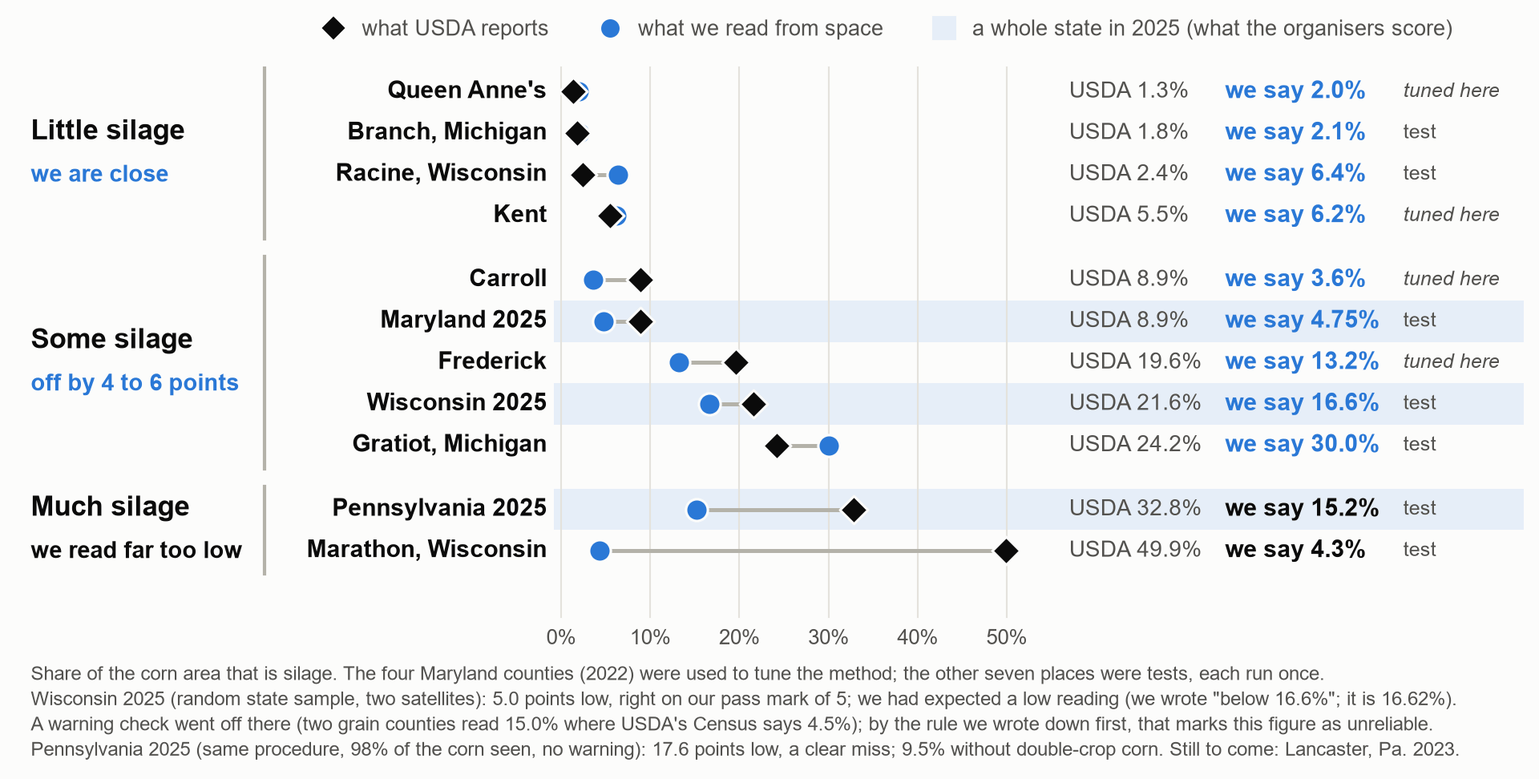
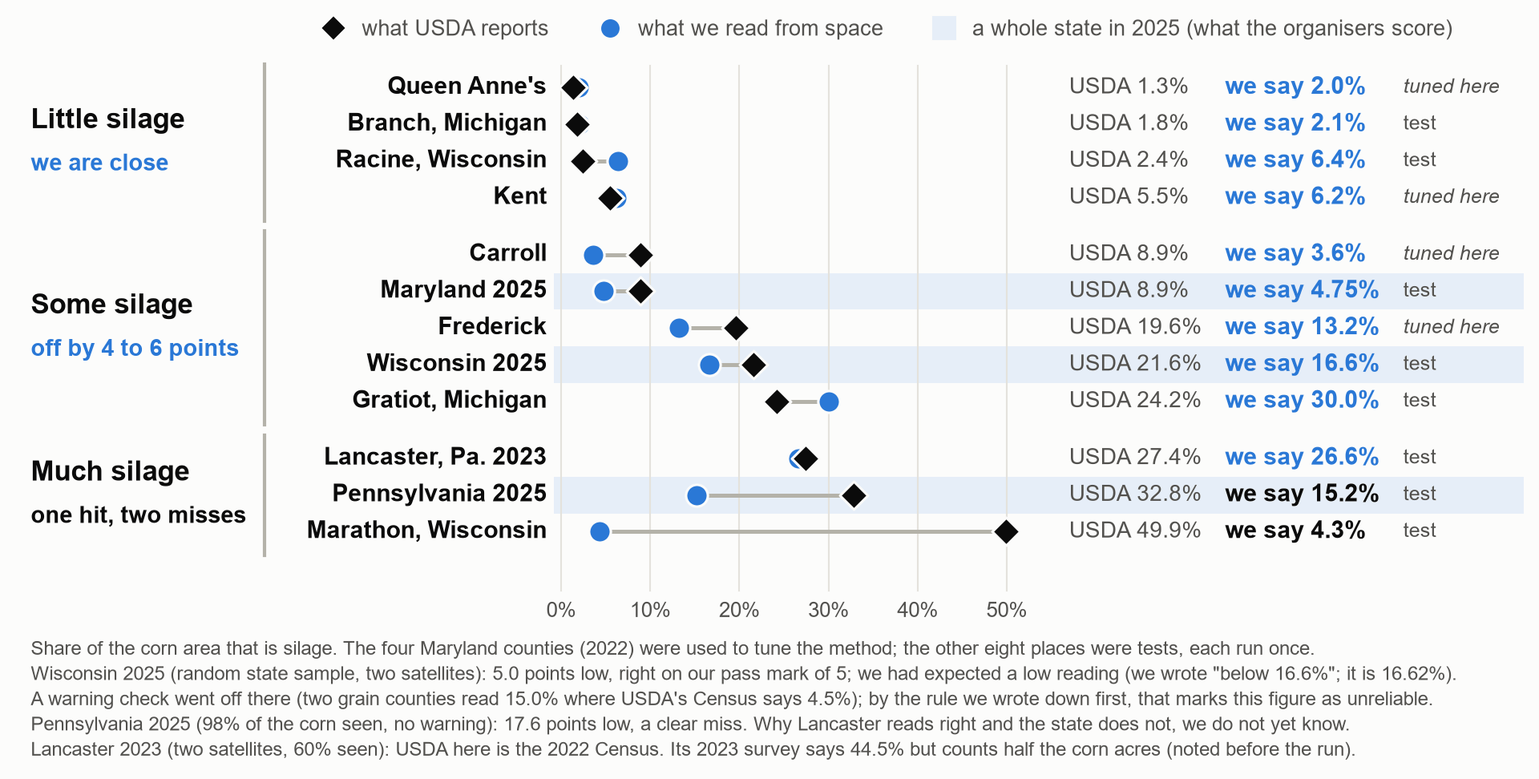
Deck: Lancaster County 2023, the last test, within a point of USDA (26.6 percent for 27.4); dairy country is right in one place and low in others
Lancaster joins the scoreboard as the one hit among the places with much silage, beside Pennsylvania 2025 and Marathon. The title, lesson 4, the Today and Next cards and the one-minute script say that we do not yet know what separates the county from the state. Places slide row filled, eighth row in the rules table, a line under the last-figure chart (no gain in Lancaster).

diff --git a/docs/pitch/build_deck.py b/docs/pitch/build_deck.py
@@ -124,8 +124,8 @@ ONE_MINUTE = """
 3. Our model had never seen an American field. At Beltsville it got 42 of USDA's 44 labelled fields right.
 4. In counties where silage is rare, our numbers are close to USDA's.
 5. Where clouds hid the harvest, a second satellite, Landsat, brought most of it back into view.
-6. In dairy states we read low. We tested two states we had never looked at. Wisconsin: 16.6 percent, where USDA says 21.6. Pennsylvania: 15 percent, where USDA says 33.
-7. So the next step is American labelled fields. A model taught in Europe reads American dairy silage low.
+6. In dairy country it is mixed. In Pennsylvania's largest dairy county we were within a point of USDA. Across the whole state we read less than half. In Wisconsin we were 5 points low.
+7. We do not yet know what separates them. So the next step is American labelled fields.
 
 === 一分钟版本（上面七句的中文） ===
 1. 美国农业部问：从太空看，一块玉米地是切碎做了青贮，还是收了籽粒？
@@ -133,8 +133,8 @@ ONE_MINUTE = """
 3. 我们的模型从没见过美国的地。在 Beltsville，美国农业部 44 个带标签的地块它对了 42 个。
 4. 在青贮很少的县，我们的数字和美国农业部的很接近。
 5. 云挡住收割期的地方，第二颗卫星 Landsat 把其中大部分又看回来了。
-6. 在奶牛产区的州我们读得偏低。我们测了两个从没看过的州。威斯康星：我们 16.6%，美国农业部 21.6%。宾夕法尼亚：我们 15%，美国农业部 33%。
-7. 所以下一步是美国本土带标签的地块。在欧洲学出来的模型，读美国奶牛产区的青贮会偏低。"""
+6. 在奶牛产区，结果有好有坏。在宾夕法尼亚最大的奶牛县，我们和美国农业部只差不到一个点；在整个宾州，我们读出的还不到一半；在威斯康星，我们低了 5 个点。
+7. 我们还不知道是什么造成了这个差别。所以下一步是美国本土带标签的地块。"""
 
 
 def build(out):
@@ -257,14 +257,16 @@ def build(out):
           "我们的模型从没见过美国的地。在美国农业部 44 个带标签的地块上，它对了 42 个。12 块青贮地找到了 11 块，只有一次误报。在笔记本电脑上，一个县大约一分钟算完（实测）。")
 
     # 6  the scoreboard against USDA ---------------------------------------------------------------------
-    s = new_slide(prs, "Close where silage is rare, low in dairy country: 5 points in Wisconsin, 18 in Pennsylvania")
+    s = new_slide(prs, "Close where silage is rare. In dairy country: right in Lancaster, 5 points low in Wisconsin, 18 in Pennsylvania")
     body_picture(s, "s06_scoreboard.png")
-    notes(s, "Then we tried to break it. We compared eleven places with USDA's own numbers. "
-             "We are close where silage is rare. In dairy country we read low: 5 points in Wisconsin, 18 in Pennsylvania. "
-             "Those are two whole states we had never looked at. In Pennsylvania we saw almost all the corn, so clouds are not the reason. "
+    notes(s, "Then we tried to break it. We compared twelve places with USDA's own numbers. "
+             "We are close where silage is rare. In dairy country it is mixed. "
+             "In Lancaster, Pennsylvania's largest dairy county, we are within a point of USDA. "
+             "Across all of Pennsylvania we read less than half, and Wisconsin is 5 points low. We do not yet know what separates them. "
              "In Wisconsin a warning check we had set up went off. By the rule we wrote down first, that marks the Wisconsin figure as unreliable.",
-          "然后我们想办法把它考倒：拿十一个地方和美国农业部自己的数字对比。青贮少的地方我们很接近；在奶牛产区我们读得偏低："
-          "威斯康星低 5 个点，宾夕法尼亚低 18 个点。这两个州我们之前从没看过。在宾夕法尼亚我们几乎看到了所有玉米，所以原因不是云。"
+          "然后我们想办法把它考倒：拿十二个地方和美国农业部自己的数字对比。青贮少的地方我们很接近；在奶牛产区，结果有好有坏。"
+          "在宾夕法尼亚最大的奶牛县 Lancaster，我们和美国农业部只差不到一个点；在整个宾州，我们读出的还不到一半；威斯康星低 5 个点。"
+          "我们还不知道是什么造成了这个差别。"
           "在威斯康星，我们事先设的一个预警触发了；按我们事先写下的规则，威斯康星这个数字要标为“不可靠”。")
 
     # 7  a second satellite for the cloudy counties --------------------------------------------------------------
@@ -289,9 +291,9 @@ def build(out):
          "A clever correction failed the test we had written for it (21% for 5.5%). We dropped it.", False),
         ("A second satellite sees past the clouds",
          "In three cloudy counties, Landsat brought the corn back into view and our figure moved towards USDA's.", False),
-        ("In dairy states we read low, even when we see the fields",
-         f"Pennsylvania 2025: {pa['seen']}% of the corn seen, and we read {pa['ours']}% where USDA has {pa['usda']}%. "
-         "So the limit is not clouds. The next step is American labelled fields.", True),
+        ("In dairy country we are right in one place and low in others",
+         "In Pennsylvania's largest dairy county we were within a point of USDA. Across the state we read less than half, "
+         f"with {pa['seen']}% of the corn in view. We do not yet know why.", True),
     ]
     for i, (head, line, open_) in enumerate(lessons):
         x = MX + (i % 2) * (half + 0.4)
@@ -301,9 +303,10 @@ def build(out):
         text(s, x + 1.2, y + 0.3, half - 1.5, 0.9, head, size=21, bold=True, color=WHITE if open_ else INK, spacing=1.05)
         text(s, x + 1.2, y + 1.2, half - 1.5, 1.2, line, size=15, color=WHITE if open_ else INK2, spacing=1.15)
     notes(s, "The data taught us four things on the way. Do not count what you cannot see. Test your own fix. "
-             "A second satellite sees past clouds. And in dairy states we read low, even when we see the fields.",
+             "A second satellite sees past clouds. And in dairy country we are right in one place and low in others: "
+             "within a point of USDA in Pennsylvania's largest dairy county, less than half across the whole state. We do not yet know why.",
           "一路上数据教了我们四件事：看不见的不要数；自己的修正也要检验；第二颗卫星能看穿云层；"
-          "还有，在奶牛产区的州，即使看清了地块，我们的读数还是偏低。")
+          "还有，在奶牛产区，我们有的地方读对了，有的地方读低了：在宾夕法尼亚最大的奶牛县只差不到一个点，在整个宾州却不到一半。原因我们还不知道。")
 
     # 8  the whole team system -------------------------------------------------------------------------------
     s = new_slide(prs, "Where our model sits in the team's system")
@@ -351,11 +354,11 @@ def build(out):
     card(s, MX, 1.5, half, 3.55)
     text(s, MX + 0.4, 1.7, half - 0.8, 0.5, "Today", size=24, bold=True, color=BLUE)
     text(s, MX + 0.4, 2.4, half - 0.8, 2.6, "A call for every corn field, with the evidence behind it: 42 of 44 right where we could check.\n\n"
-         "County totals where silage is rare. Elsewhere, a plain warning that we read low.\n\n"
+         "County totals where silage is rare. In dairy country, a plain warning: we can read low.\n\n"
          "Free public data, no US labels, about a minute per county on a laptop.", size=16, color=INK, spacing=1.08)
     card(s, MX + half + 0.4, 1.5, half, 3.55)
     text(s, MX + half + 0.8, 1.7, half - 0.8, 0.5, "Next", size=24, bold=True, color=BLUE)
-    text(s, MX + half + 0.8, 2.4, half - 0.8, 2.6, "American labelled fields, or training against USDA's county totals: a model taught in Europe reads dairy states low.\n\n"
+    text(s, MX + half + 0.8, 2.4, half - 0.8, 2.6, "American labelled fields, or training against USDA's county totals: in dairy country we are not yet reliable.\n\n"
          "Landsat, the second satellite, everywhere.\n\n"
          "Labelled double-crop corn fields: those calls are untested.", size=16, color=INK, spacing=1.08)
     card(s, MX, 5.3, FULL, 1.6, fill=BLUE, line=None)
@@ -364,10 +367,10 @@ def build(out):
     text(s, MX + 0.4, 6.15, FULL - 0.8, 0.65, "A preliminary baseline, checked in four states. "
          "Predictions anywhere else are examples, not verified results.", size=14, color=WHITE, anchor=MSO_ANCHOR.MIDDLE)
     notes(s, "So what does USDA get? A call for every field, with its evidence, from free data. "
-             "County totals where silage is rare. In dairy states we read low, and we say so. "
+             "County totals where silage is rare. In dairy country we are not yet reliable, and we say so. "
              "Next we need American labelled fields.",
           "那么美国农业部能得到什么？每块地一个判断，附上依据，用的是免费数据；青贮少的县，有县级总数。"
-          "在奶牛产区的州我们读得偏低，我们照实说。下一步需要美国本土带标签的地块。")
+          "在奶牛产区我们还不可靠，我们照实说。下一步需要美国本土带标签的地块。")
 
     # ===== more detail: each slide stands on its own ====================================================================
 
@@ -403,11 +406,11 @@ def build(out):
     body_picture(s, "s05_places.png")
     notes(s, "Every place we compared with USDA, with both ways of adding up the fields. "
              "The grey bands are the ranges USDA's own figures allow. "
-             "The newest rows are two whole states. Wisconsin 2025: 16.6 percent for USDA's 21.6, right on our pass mark of five points. "
-             "Pennsylvania 2025: 15.2 percent for 32.8, a clear miss.",
+             "The three newest rows were opened last, once each. Wisconsin 2025: 16.6 percent for USDA's 21.6, right on our pass mark of five points. "
+             "Pennsylvania 2025: 15.2 percent for 32.8, a clear miss. Lancaster County 2023: 26.6 percent for 27.4, within a point.",
           "所有和美国农业部对比过的地方，两种加总方式都列出来。灰色带是美国农业部自己的数字允许的范围。"
-          "最新的两行是两个州。2025 年威斯康星：我们 16.6%，美国农业部 21.6%，正好压在我们 5 个点的及格线上。"
-          "2025 年宾夕法尼亚：我们 15.2%，美国农业部 32.8%，明显读低了。")
+          "最新的三行是最后打开的三个地方，每个只跑一次。2025 年威斯康星：我们 16.6%，美国农业部 21.6%，正好压在我们 5 个点的及格线上。"
+          "2025 年宾夕法尼亚：我们 15.2%，美国农业部 32.8%，明显读低了。2023 年 Lancaster 县：我们 26.6%，美国农业部 27.4%，只差不到一个点。")
 
     s = new_slide(prs, "Starting from USDA's last figure: closer in six of eight counties we tuned on, worse in all three states")
     body_picture(s, "s_update.png")
@@ -438,8 +441,8 @@ def build(out):
          "and our \"not seen\" measure did not flag it",
          "Added Landsat, a second satellite: corn seen 29% → 83%. Repairing the measure so such a county is reported as a range",
          "4.3% → 13.8% (USDA 49.9%). The rest needs northern training fields"),
-        ("Dairy states read low even with the corn in view: Pennsylvania 15.2% for 32.8%",
-         "Measured on two state samples never looked at before", "Not solved: needs American labelled fields"),
+        ("Dairy country is mixed: Lancaster County 26.6% for 27.4%, but all of Pennsylvania 15.2% for 32.8%",
+         "Measured on three places never looked at before", "Not solved: we do not yet know what separates them"),
     ]
     y = 1.76
     for i, cells in enumerate(fixes):
@@ -449,10 +452,10 @@ def build(out):
             text(s, x + 0.2, y, w - 0.3, rh, cell, size=13.5, bold=strong, color=INK, anchor=MSO_ANCHOR.MIDDLE, spacing=1.05)
         y += rh + 0.06
     notes(s, "The tuning in one table: each row is a problem the data showed us, what we did, and what came out. "
-             "Early green grain is not solved, the cloudy dairy county is only partly fixed, and dairy states still read low.",
+             "Early green grain is not solved, the cloudy dairy county is only partly fixed, and dairy country is right in one place and low in others.",
           "一张表讲完调优过程：每一行是数据暴露出的一个问题、我们的做法和结果。"
           "趁绿早收的籽粒玉米还没解决；多云的那个奶牛县只修好了一部分。"
-          "奶牛产区的州仍然读得偏低。")
+          "奶牛产区有的地方读对了，有的地方读低了。")
 
     s = new_slide(prs, "Why we count only the fields we saw clearly")
     body_picture(s, "s09_gap_evidence.png")
@@ -507,7 +510,7 @@ def build(out):
          "Failures are shown as failures. In Wisconsin 2025 a warning check we had written first went off, so by our own rule "
          "that figure is marked unreliable.", size=15, color=INK, spacing=1.12)
     text(s, MX, 4.12, FULL, 0.35, "From the log: the rule first, then the test", size=14, bold=True, color=INK)
-    wi, pa = N.WISCONSIN_2025, N.PENNSYLVANIA_2025
+    wi, pa, la = N.WISCONSIN_2025, N.PENNSYLVANIA_2025, N.LANCASTER_2023
     logged = [
         ("16:12", "16:40", "Queen Anne's", "failed: 22% for USDA's 1.3%"),
         ("17:30", "18:11", "Kent", "failed: 21% for USDA's 5.5%"),
@@ -516,6 +519,7 @@ def build(out):
         ("22:55", "22:58", "Wisconsin 2023, two counties", "failed: Marathon 4.3% for USDA's 32 to 50%"),
         ("00:18", "01:43", "Wisconsin 2025", f"on the pass mark, marked unreliable: {wi['ours']}% for USDA's {wi['usda']}%"),
         ("00:18", "01:53", "Pennsylvania 2025", f"failed: {pa['ours']}% for USDA's {pa['usda']}%"),
+        ("00:18", "02:13", "Lancaster County 2023", f"passed: {la['ours']}% for USDA's {la['census_2022']}% (2022 Census)"),
     ]
     rh = 0.27
     for i, (rule_at, test_at, what, result) in enumerate(logged):

diff --git a/docs/pitch/deck_figs.py b/docs/pitch/deck_figs.py
@@ -65,7 +65,7 @@ def places():
     def pct(v):
         return f"{v:.2f}%" if round(v * 100) % 10 else f"{v:.1f}%"
 
-    wi, pa = N.WISCONSIN_2025, N.PENNSYLVANIA_2025
+    wi, pa, la = N.WISCONSIN_2025, N.PENNSYLVANIA_2025, N.LANCASTER_2023
     fig = body()
     ax = fig.add_axes([0.2, 0.262, 0.79, 0.638])
     D.clean(ax, grid=None)
@@ -110,6 +110,9 @@ def places():
             if name == "Pennsylvania 2025":
                 ax.text(beside_x, y, f"MISSED by {pa['points_low']}; {pa['single_crop']}% without double crops", fontsize=12.5,
                         color=INK, fontweight="bold", va="center")
+            if name.startswith("Lancaster"):
+                ax.text(beside_x, y, f"{la['points_low']} low: passed (within 10 of USDA's range)", fontsize=12.5,
+                        color=INK, va="center")
     ax.text(usda_x, top + 0.75, "USDA", fontsize=13, color=INK2, ha="right", va="center")
     ax.text(ours_x, top + 0.75, "Ours", fontsize=13, fontweight="bold", color=BLUE, ha="right", va="center")
     ax.text(beside_x, top + 0.75, "Beside it", fontsize=13, color=INK2, va="center")
@@ -159,12 +162,12 @@ def places():
              "Ours = the plain count of the clearly seen fields;\n"
              f"where cloud hid more than {N.NOT_SEEN_SWITCH}% of the corn (Queen Anne's, Kent), the count by harvest window. "
              "Grey band: the range USDA's own figures allow\n"
-             "(the fields we score, in Carroll and Frederick; Census 2022 to survey 2023, in Wisconsin). "
+             "(the fields we score, in Carroll and Frederick; Census to survey, in Wisconsin and Lancaster). "
              f"In Marathon {N.MARATHON_NOT_JUDGED}% of the fields could not be judged.\n"
-             f"Wisconsin 2025: {wi['fields']:,} fields in {wi['blocks']} random blocks, {wi['seen']}% of the corn seen; a warning check "
-             f"went off (two grain counties read {wi['guard']['ours']}% for USDA's {wi['guard']['census']}%).\n"
-             f"Pennsylvania 2025: {pa['fields']:,} fields in {pa['blocks']} blocks, {pa['seen']}% seen, no warning. Both states were read "
-             "with two satellites and include double-crop corn, by the rule written after Maryland.",
+             f"Wisconsin 2025: {wi['fields']:,} fields, {wi['seen']}% seen, a warning check went off (two grain counties: {wi['guard']['ours']}% "
+             f"for USDA's {wi['guard']['census']}%). Pennsylvania 2025: {pa['fields']:,} fields, {pa['seen']}% seen, no warning.\n"
+             f"Lancaster 2023: {la['fields']:,} fields, {la['seen']}% seen; USDA = Census 2022, as the 2023 survey ({la['survey_2023']}%) counts "
+             "half the acres. All three: two satellites; states with double-crop corn.",
              fontsize=11.5, color=INK2, va="bottom", linespacing=1.4)
     put(fig, "s05_places")
 
@@ -175,14 +178,14 @@ def scoreboard():
         return f"{v:.2f}%" if round(v * 100) % 10 else f"{v:.1f}%"
 
     zones = [("Little silage", "we are close", lambda u: u < 8),
-             ("Some silage", "off by 4 to 6 points", lambda u: 8 <= u < 30),
-             ("Much silage", "we read far too low", lambda u: u >= 30)]
+             ("Some silage", "off by 4 to 6 points", lambda u: 8 <= u < 25),
+             ("Much silage", "one hit, two misses", lambda u: u >= 25)]
     opened = [("test", name if "," in name else name + " (state)", usda, band, ours, ours, 0.0)
               for name, usda, band, ours in N.PLACES_TO_OPEN if ours is not None]
     rows = sorted(N.PLACES + opened, key=lambda r: r[2])
-    wi, pa = N.WISCONSIN_2025, N.PENNSYLVANIA_2025
+    wi, pa, la = N.WISCONSIN_2025, N.PENNSYLVANIA_2025, N.LANCASTER_2023
     fig = body()
-    ax = fig.add_axes([0.36, 0.2, 0.63, 0.73])
+    ax = fig.add_axes([0.36, 0.235, 0.63, 0.695])
     D.clean(ax, grid=None)
     ax.set_xlim(-0.8, 108)
     y = 0.0
@@ -241,8 +244,10 @@ def scoreboard():
              f"{wi['pass_mark']}; we had expected a low reading (we wrote \"below {wi['predicted_below']}%\"; it is {wi['ours_exact']}%).\n"
              f"A warning check went off there (two grain counties read {wi['guard']['ours']}% where USDA's Census says "
              f"{wi['guard']['census']}%); by the rule we wrote down first, that marks this figure as unreliable.\n"
-             f"Pennsylvania 2025 (same procedure, {pa['seen']}% of the corn seen, no warning): {pa['points_low']} points low, a clear miss; "
-             f"{pa['single_crop']}% without double-crop corn." + more,
+             f"Pennsylvania 2025 ({pa['seen']}% of the corn seen, no warning): {pa['points_low']} points low, a clear miss. "
+             "Why Lancaster reads right and the state does not, we do not yet know.\n"
+             f"Lancaster 2023 (two satellites, {la['seen']}% seen): USDA here is the 2022 Census. Its 2023 survey says "
+             f"{la['survey_2023']}% but counts half the corn acres (noted before the run)." + more,
              fontsize=11.5, color=INK2, va="bottom", linespacing=1.4)
     put(fig, "s06_scoreboard")
 
@@ -327,7 +332,7 @@ def history_update():
 
     counties, states = N.HISTORY_UPDATE, N.HISTORY_UPDATE_STATES
     fig = body()
-    ax = fig.add_axes([0.2, 0.225, 0.79, 0.65])
+    ax = fig.add_axes([0.2, 0.26, 0.79, 0.615])
     D.clean(ax, grid=None)
     ax.set_xlim(-20, 31)
     n = len(counties) + len(states) + 1  # one empty row between the two groups
@@ -370,7 +375,7 @@ def history_update():
     ]
     fig.legend(handles=handles, loc="upper left", bbox_to_anchor=(0.19, 1.0), ncol=2, frameon=False, fontsize=13,
                labelcolor=INK2, handletextpad=0.3, columnspacing=1.8)
-    m, wi, pa = N.HISTORY_UPDATE_MISS, N.WISCONSIN_2025, N.PENNSYLVANIA_2025
+    m, wi, pa, la = N.HISTORY_UPDATE_MISS, N.WISCONSIN_2025, N.PENNSYLVANIA_2025, N.LANCASTER_2023
     fig.text(0.02, 0.02, "The eight counties had already been seen while tuning, so they are not a test. One satellite (Sentinel-2), "
              "as for Maryland 2025; the other two states were read with two.\n"
              "USDA's last figure: the 2017 Census for the 2022 counties, the 2022 survey for the Wisconsin counties, "
@@ -379,7 +384,9 @@ def history_update():
              f"{m['last_no_marathon']} and {m['updated_no_marathon']}. The satellite on its own: {m['satellite']}.\n"
              "Wisconsin and Pennsylvania 2025 were tests with the rule written first: the update had to end closer than the last figure "
              f"alone. It ended {wi['updated_off']} and {pa['updated_off']} points off, against {wi['last_official_off']} and "
-             f"{pa['last_official_off']}.",
+             f"{pa['last_official_off']}.\n"
+             f"Lancaster 2023, the third test: the last figure there is the reference itself ({la['census_2022']}%, the 2022 Census); "
+             f"the update gave {la['updated']}%, so no gain.",
              fontsize=11.5, color=INK2, va="bottom", linespacing=1.4)
     put(fig, "s_update")
 

diff --git a/docs/pitch/pitch_numbers.py b/docs/pitch/pitch_numbers.py
@@ -321,7 +321,7 @@ HISTORY_UPDATE_STATES = [
 PLACES_TO_OPEN = [
     ("Wisconsin 2025", 21.6, None, 16.6),
     ("Pennsylvania 2025", 32.8, None, 15.2),
-    ("Lancaster, Pa. 2023", 44.5, (27.4, 54.8), None),
+    ("Lancaster, Pa. 2023", 27.4, (27.4, 54.8), 26.6),
 ]
 
 # Sentinel-2 alone and with Landsat 8 and 9 added, in the three counties where clouds hid the
@@ -374,4 +374,24 @@ PENNSYLVANIA_2025 = {
     "last_official": 31.4, "last_official_off": 1.4, "updated": 18.7, "updated_off": 14.1,
     "land_use_updated": 13.1, "land_use_off": 19.7,
     "guard": {"counties": "Northampton and Lehigh", "ours": 4.1, "census": 3.8, "flagged": False},
+}
+
+# Lancaster County, Pennsylvania, 2023, the third: run once (log 02:11 for the command, 02:13 for
+# the result). 10,533 corn fields in 70 of the county's 113 blocks (64 % of its corn by the field
+# boundaries, log 01:28), Sentinel-2 plus Landsat, 60 % of the corn area seen, 6,404 clearly seen
+# fields, 2,249 not judged. Satellite alone 26.6 % (range 18.0 to 58.1). Reference, fixed before
+# the run (log 01:28): the 2022 Census, 27.4 %, because the 2023 county survey (44.5 %) counts
+# only about half the corn acres that the Census, the boundaries and the cropland map show. So
+# 0.8 points low, and 0.8 below the band of official figures (27.4 to 54.8); pass mark "within 10
+# points of the band": PASS. Beside it: the update from the last official share (the Census
+# itself) gives 25.1 %, no gain; the update from the land-use figure gives 9.1 %, 18.3 off.
+# Teammates' own earlier run of the same classifier on 1,057 clearly seen fields read 35.2 %; the
+# coordinator had seen that figure before this run (log 01:50) and the procedure did not change.
+LANCASTER_2023 = {
+    "fields": 10_533, "blocks": (70, 113), "share_of_county_corn": 64, "seen": 60,
+    "clear_fields": 6_404, "clear_tier_area": 63, "not_judged_fields": 2_249,
+    "ours": 26.6, "ours_range": (18.0, 58.1), "census_2022": 27.4, "survey_2023": 44.5,
+    "band": (27.4, 54.8), "points_low": 0.8,
+    "updated": 25.1, "updated_off": 2.3, "land_use_updated": 9.1, "land_use_off": 18.3,
+    "teammates_run": {"fields": 1_057, "share": 35.2},
 }

diff --git a/docs/pitch/README.md b/docs/pitch/README.md
@@ -3,19 +3,23 @@
 Everything needed to put the model part into the 5-minute talk. Each figure is a 1920 x 1080 PNG
 with its own title, so it can go on a slide as it is.
 
-**Status.** Michigan, Maryland 2025, the last test on the labelled fields, Wisconsin 2025 and
-Pennsylvania 2025 are in. Still to come: Lancaster County 2023.
+**Status.** Every planned test is in: Michigan, Maryland 2025, the last test on the labelled
+fields, Wisconsin 2023, Wisconsin 2025, Pennsylvania 2025 and Lancaster County 2023.
 
 **Newer than the rest of this page:** the Wisconsin 2023 test failed (Marathon County read 4.3 %
-where USDA has 32.1 to 49.9 %). Two state samples never looked at before were then run once each.
+where USDA has 32.1 to 49.9 %). Three places never looked at before were then run once each.
 Wisconsin 2025 read 16.6 % where USDA has 21.6 %: 5.0 points low, right on the pass mark of 5
 (16.62 % and 4.98 points; the 16.5 % logged first left out double-crop corn by mistake and was
 corrected). We had written that it would read below 16.6 %, which misses by the same hair. A
 warning check on two grain counties went off there (15.0 % for 4.5 %), which by the rule written
 first marks the figure as unreliable, and the deck says so. Pennsylvania 2025 read 15.2 % where
 USDA has 32.8 %: 17.6 points low, a clear miss, with 98 % of the corn seen and no warning, so
-clouds are not the reason. The slide deck is up to date; the figures, `script.md` and `limits.md`
-of the first pack were written before all three.
+clouds are not the reason. Lancaster County 2023, Pennsylvania's largest dairy county, read 26.6 %
+where USDA's 2022 Census has 27.4 %: 0.8 points low, a pass (the 2023 survey says 44.5 % but
+counts half the county's corn acres; the Census was fixed as the reference before the run). So in
+dairy country the model is right in one place and low in others, and we do not yet know what
+separates them. The slide deck is up to date; the figures, `script.md` and `limits.md` of the
+first pack were written before all of these.
 
 ## The three sentences the model part stands on
 
@@ -108,13 +112,14 @@ feasibility 20 % ("potential to be developed further").
 US labels, so learn from European farm registries (the new data source). 3 The signal, in real
 pictures: silage is cut green and wet (the harvest signal). 4 How it works in three plain steps,
 and the rule that a hidden harvest is not guessed. 5 The test on USDA's 44 labelled fields, with
-the rubric's four measures. 6 The scoreboard: eleven places against USDA, close where silage
-is rare, low in dairy country; the newest rows are two states never looked at before, Wisconsin
-2025 (16.6 % for USDA's 21.6 %) and Pennsylvania 2025 (15.2 % for 32.8 %). 7 A second satellite, Landsat, in the three counties where clouds hid
+the rubric's four measures. 6 The scoreboard: twelve places against USDA, close where silage
+is rare, mixed in dairy country; the three newest rows were never looked at before: Lancaster
+County 2023 right (26.6 % for USDA's 27.4 %), Wisconsin 2025 on its pass mark (16.6 % for
+21.6 %), Pennsylvania 2025 missed (15.2 % for 32.8 %). 7 A second satellite, Landsat, in the three counties where clouds hid
 the harvest: all three figures move towards USDA's; in a fourth county that was already well seen
 the figure changes little and slips one point past USDA's range (the second new data source).
 8 What went wrong on the way and what it taught us (the process); the last lesson is the measured
-limit: in dairy states we read low even when we see the fields. 9 Where the model sits in the
+limit: in dairy country we are right in one place and low in others, and do not yet know why. 9 Where the model sits in the
 team's system. 10 What USDA gets today (field calls, county totals where silage is rare, a plain
 warning elsewhere), what comes next (American labelled fields), and the closing line. After a divider
 come the slides that go deeper; every slide stands on its own, so any of them can be lifted into
@@ -127,5 +132,5 @@ one-minute spoken version of the whole story.
 
 | Result | Where it will appear |
 |---|---|
-| Lancaster County 2023 | The scoreboard, the places slide and the rules slide of the deck, one more line in `script.md`, `limits.md` |
+| Why Lancaster County reads right and Pennsylvania as a state reads low (the year, or the rest of the state) | A line on the scoreboard and in lesson 4 of the deck, `limits.md` |
 | A model that also reads the pixels around the field | A line in `limits.md`, if it is logged in time |

diff --git a/docs/pitch/limits.md b/docs/pitch/limits.md
@@ -28,6 +28,23 @@ written at log 00:18; the figure is the share over all corn, double-crop corn in
   19.8 % (itself 1.8 off) to 12.9 %, Pennsylvania 31.4 % (1.4 off) to 18.7 %. The update from the
   land-use figure gave 11.6 % and 13.1 %. All four failed.
 
+**And before Lancaster County, Pennsylvania, 2023 (log 02:13), which passed.** 10,533 corn fields
+in 70 of the county's 113 blocks (64 % of its corn), Sentinel-2 plus Landsat, 60 % of the corn
+area seen, run once. The satellite alone read 26.6 % (range 18.0 to 58.1). The reference, fixed
+before the run (log 01:28), is the 2022 Census, 27.4 %: the 2023 county survey says 44.5 % but
+counts only about half the corn acres that the Census, the field boundaries and the cropland map
+show. So 0.8 points low, and 0.8 below the range of official figures (27.4 to 54.8); the pass mark
+was "within 10 points of that range". Beside it: updating from the Census figure gave 25.1 %, no
+gain; updating from the land-use figure gave 9.1 %, far off. Teammates had run the same classifier
+on 1,057 clearly seen Lancaster fields and read 35.2 %; the coordinator had seen that figure
+before this run (log 01:50) and the procedure was not changed.
+
+**What the three last tests say together.** Satellite alone: Lancaster 2023 right, Wisconsin 2025
+on its pass mark (and marked unreliable by the warning check), Pennsylvania 2025 missed. The model
+is not blind to dairy silage everywhere: in Pennsylvania's largest dairy county it is within a
+point, and across the whole state two years later it reads less than half. We do not yet know
+what separates the two (the year, or the rest of the state).
+
 "Log HH:MM" is a row of the evaluation access log (`<data>/eval/ACCESS_LOG.md`), named by its time
 on 14 Nov 2026 (Pacific). Everything else is a file in this repository.
 
